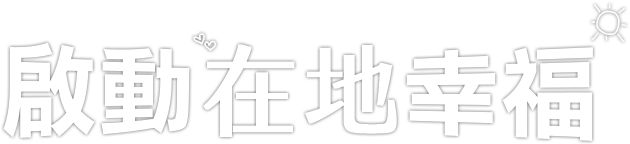
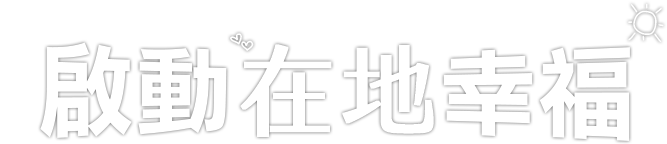
180823

diff --git a/web/index.html b/web/index.html
@@ -36,6 +36,9 @@
         <div class="container mb-0 mb-lg-15">
             <div class="row justify-content-center">
                 <div class="col-12 col-lg-10">
+                    <div class="text-center">
+                        <img class="img-fluid title mb-3" src="assets/img/ui/title.png" srcset="assets/img/ui/title@2x.png 2x" alt="啟動在地幸福">
+                    </div>
                     <div class="kv">
                         <img class="img-fluid kv-tree" src="assets/img/ui/kv-tree.png" srcset="assets/img/ui/kv-tree@2x.png 2x" alt="">
                         <img class="img-fluid kv-globe" src="assets/img/ui/kv-globe.png" srcset="assets/img/ui/kv-globe@2x.png 2x" alt="">

diff --git a/web/assets/css/index.css b/web/assets/css/index.css
@@ -2,6 +2,10 @@ html, body {
   height: 100%;
   overflow-x: hidden; }
 
+.title {
+  position: relative;
+  z-index: 5; }
+
 .kv {
   position: absolute;
   top: 50%;
